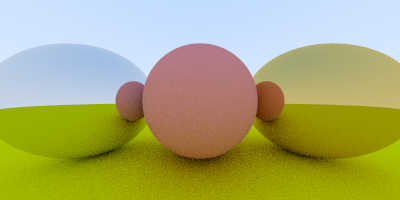
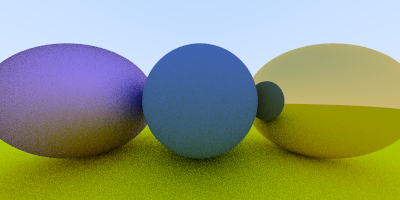
changed default scene a bit

diff --git a/main.cpp b/main.cpp
@@ -3,10 +3,6 @@
 #include <chrono>
 #include <cstdlib>
 
-
-constexpr float MAX_FLOAT = 100.f;
-int max_bounces = 5;
-
 #define STB_IMAGE_WRITE_IMPLEMENTATION
 #include "stb_image_write.h"
 
@@ -18,6 +14,10 @@ int max_bounces = 5;
 #include "sphere.h"
 #include "camera.h"
 #include "material.h"
+
+
+constexpr float MAX_FLOAT = 100.f;
+int max_bounces = 5;
 
 
 vec3 compute_color(const ray& r, hittable* world, int bounces = 0) {
@@ -34,7 +34,7 @@ vec3 compute_color(const ray& r, hittable* world, int bounces = 0) {
         }
     }
     // sky
-    else { 
+    else {
         vec3 unit_direction = unit_vector(r.direction());
         float t = 0.5f * (unit_direction.y() + 1.0f);
         return (1.0f - t) * vec3(1.0f, 1.0f, 1.0f) + // white contribution
@@ -80,10 +80,10 @@ int main(int argc, char* argv[]) {
     vec3 color;
 
     hittable* list[4];
-    list[0] = new sphere(vec3(0.f, 0.f, -1.f), 0.5f, new lambertian(vec3(0.8f, 0.3f, 0.3f)));
-    list[1] = new sphere(vec3(0.f, -100.5f, -1.f), 100.f, new lambertian(vec3(0.8f, 0.8f, 0.0f)));
-    list[2] = new sphere(vec3(1.f, 0.f, -1.f), 0.5f, new metal(vec3(0.8f, 0.6f, 0.2f), 0.f));
-    list[3] = new sphere(vec3(-1.f, 0.f, -1.f), 0.5f, new metal(vec3(0.8f, 0.8f, 0.8f), 0.f));
+    list[0] = new sphere(vec3(0, 0, -1), 0.5, new lambertian(vec3(0.1, 0.2, 0.5)));
+    list[1] = new sphere(vec3(0, -100.5, -1), 100, new lambertian(vec3(0.8, 0.8, 0.0)));
+    list[2] = new sphere(vec3(1, 0, -1), 0.5, new metal(vec3(0.8, 0.6, 0.2), 0.0));
+    list[3] = new sphere(vec3(-1, 0, -1), 0.5, new metal(vec3(0.5, 0.3, 0.8), 1.0));
     hittable* world = new hittable_list(list, 4);
 
     camera cam(aspect_ratio);
@@ -95,7 +95,7 @@ int main(int argc, char* argv[]) {
                 u = float(x + random_double()) / float(width);
                 v = float(y + random_double()) / float(height);
                 r = cam.get_ray(u, v);
-                color += compute_color(r, world);
+                color += compute_color(r, world, 0);
             }
             color /= static_cast<float>(samples);
 

diff --git a/material.h b/material.h
@@ -4,6 +4,8 @@
 #include "hittable.h"
 #include "random.h"
 
+vec3 reflect(const vec3& v, const vec3& n);
+
 class material {
 public:
     virtual bool scatter(const ray& r_in, const hit_record& rec, vec3& attenuation, ray& scattered) const = 0;
@@ -24,10 +26,6 @@ public:
     vec3 albedo;
 };
 
-
-inline vec3 reflect(const vec3& v, const vec3& n) {
-    return v - 2 * dot(v, n) * n;
-}
 
 class metal : public material {
 public:

diff --git a/material.cpp b/material.cpp
@@ -1,1 +1,7 @@
 #include "material.h"
+
+#include "vec3.h"
+
+vec3 reflect(const vec3& incident, const vec3& normal) {
+    return incident - 2 * dot(incident, normal) * normal; // we compute a ray perpendicular to the incident one
+}

diff --git a/hittable.h b/hittable.h
@@ -8,7 +8,7 @@ struct hit_record {
     float t = 0.f;
     vec3 point;
     vec3 normal;
-    material* mat_ptr;
+    material* mat_ptr = nullptr;
 };
 
 class hittable {
